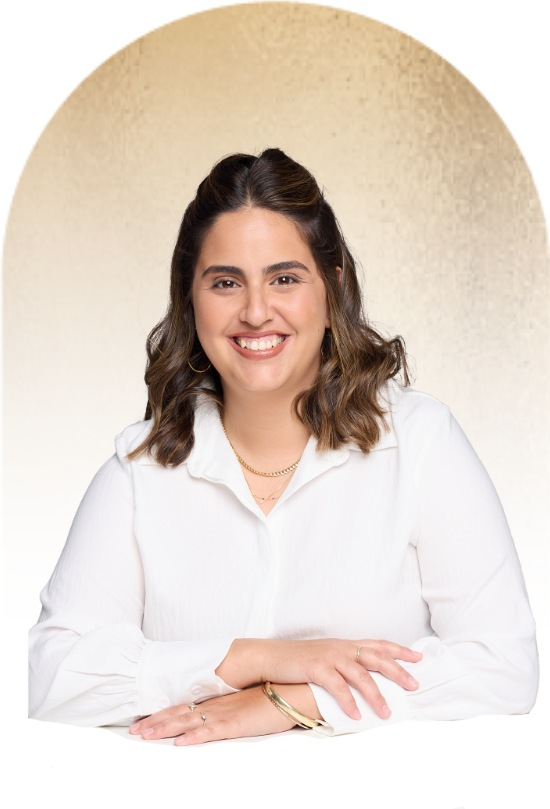
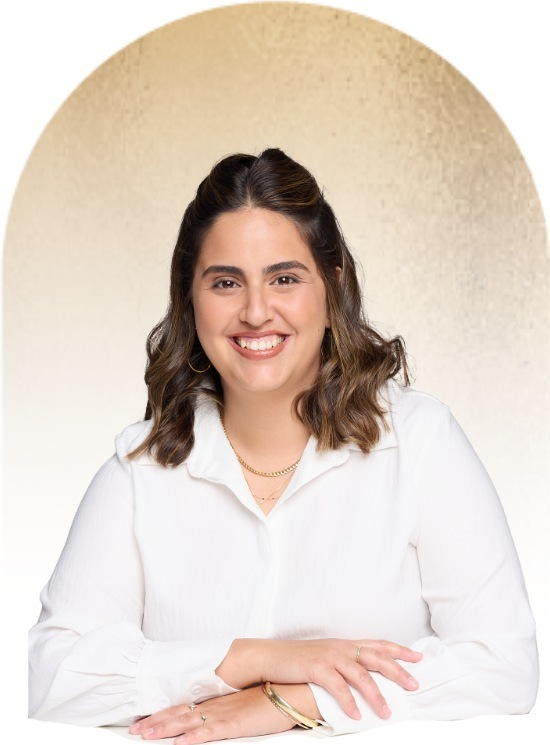
חיתוך תמונת "על עטרה" עד הידיים, ללא רצועת שולחן לבנה מתחת

diff --git a/docs/assets/css/base.css b/docs/assets/css/base.css
@@ -377,8 +377,8 @@ p {
 
 /* מסכת שער — חותכת את תמונת עטרה לצורת הקשת של הלוגו, כדי שתשב ישירות על רקע הדף בלי מלבן לבן מסביב */
 .arch-photo {
[4 lines of base64/hex data omitted]
   -webkit-mask-size: 100% 100%;
   mask-size: 100% 100%;
   -webkit-mask-repeat: no-repeat;

diff --git a/docs/designs/4-diyokan/style.css b/docs/designs/4-diyokan/style.css
@@ -225,7 +225,7 @@ body {
 .about-echo {
   position: relative;
   width: 100%;
-  aspect-ratio: 550 / 809;
+  aspect-ratio: 550 / 745;
 }
 
 .echo-layer {
